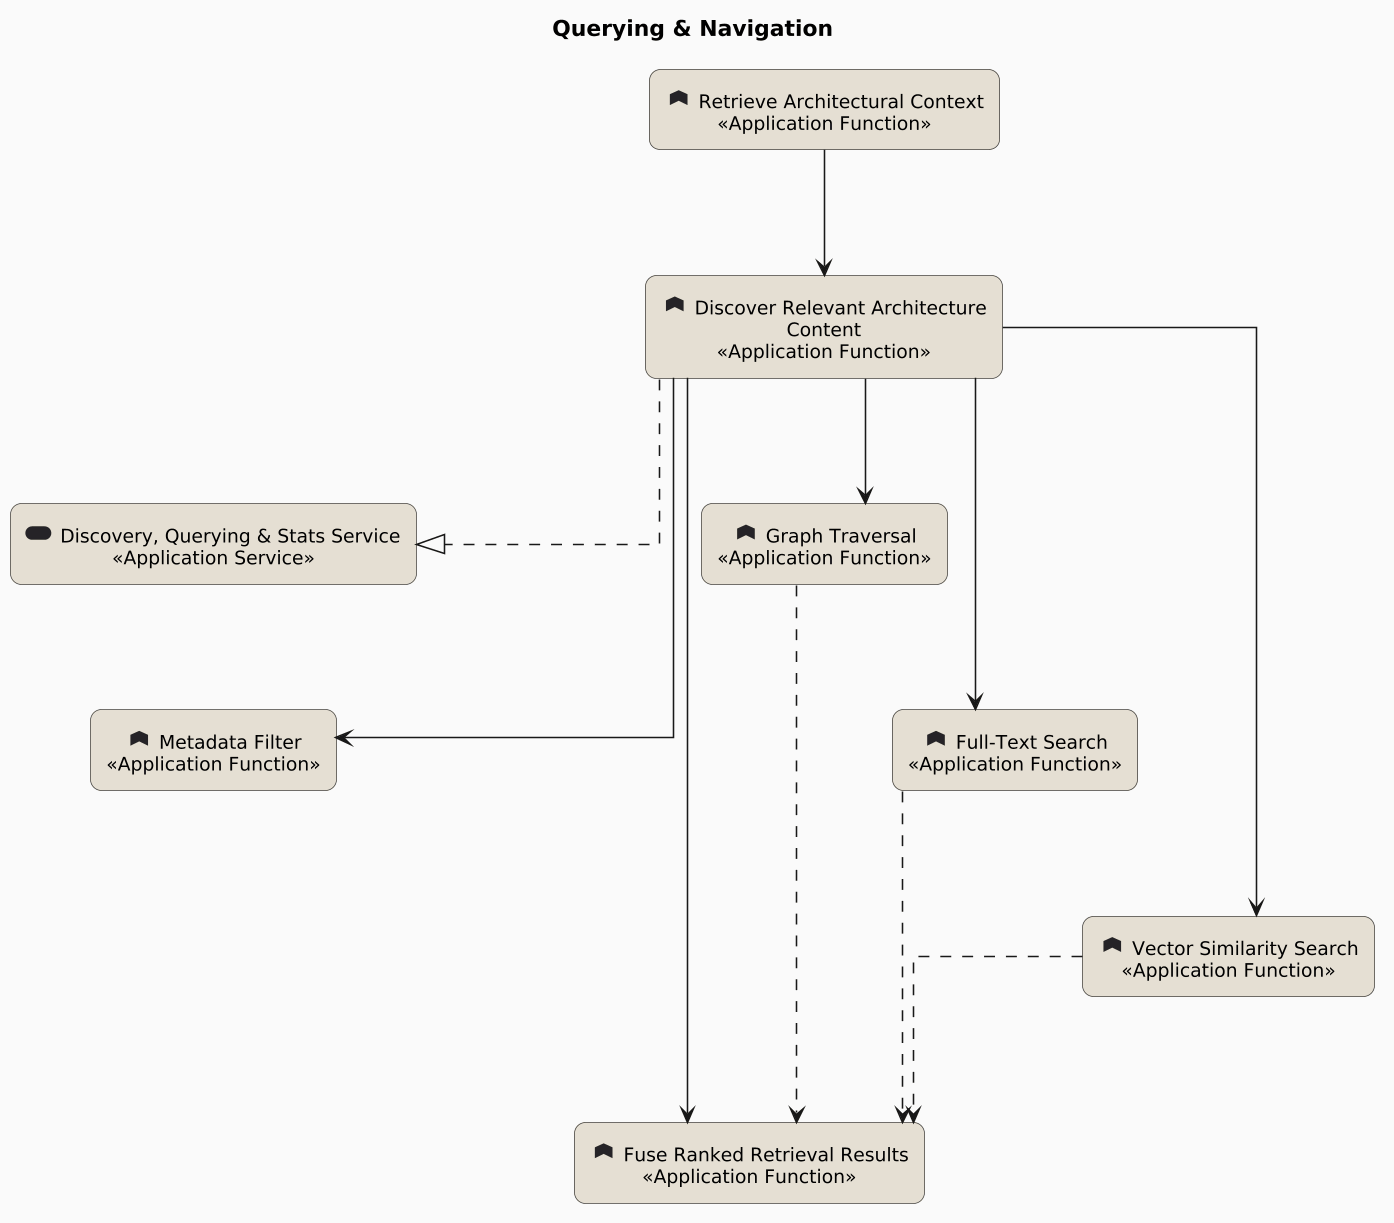
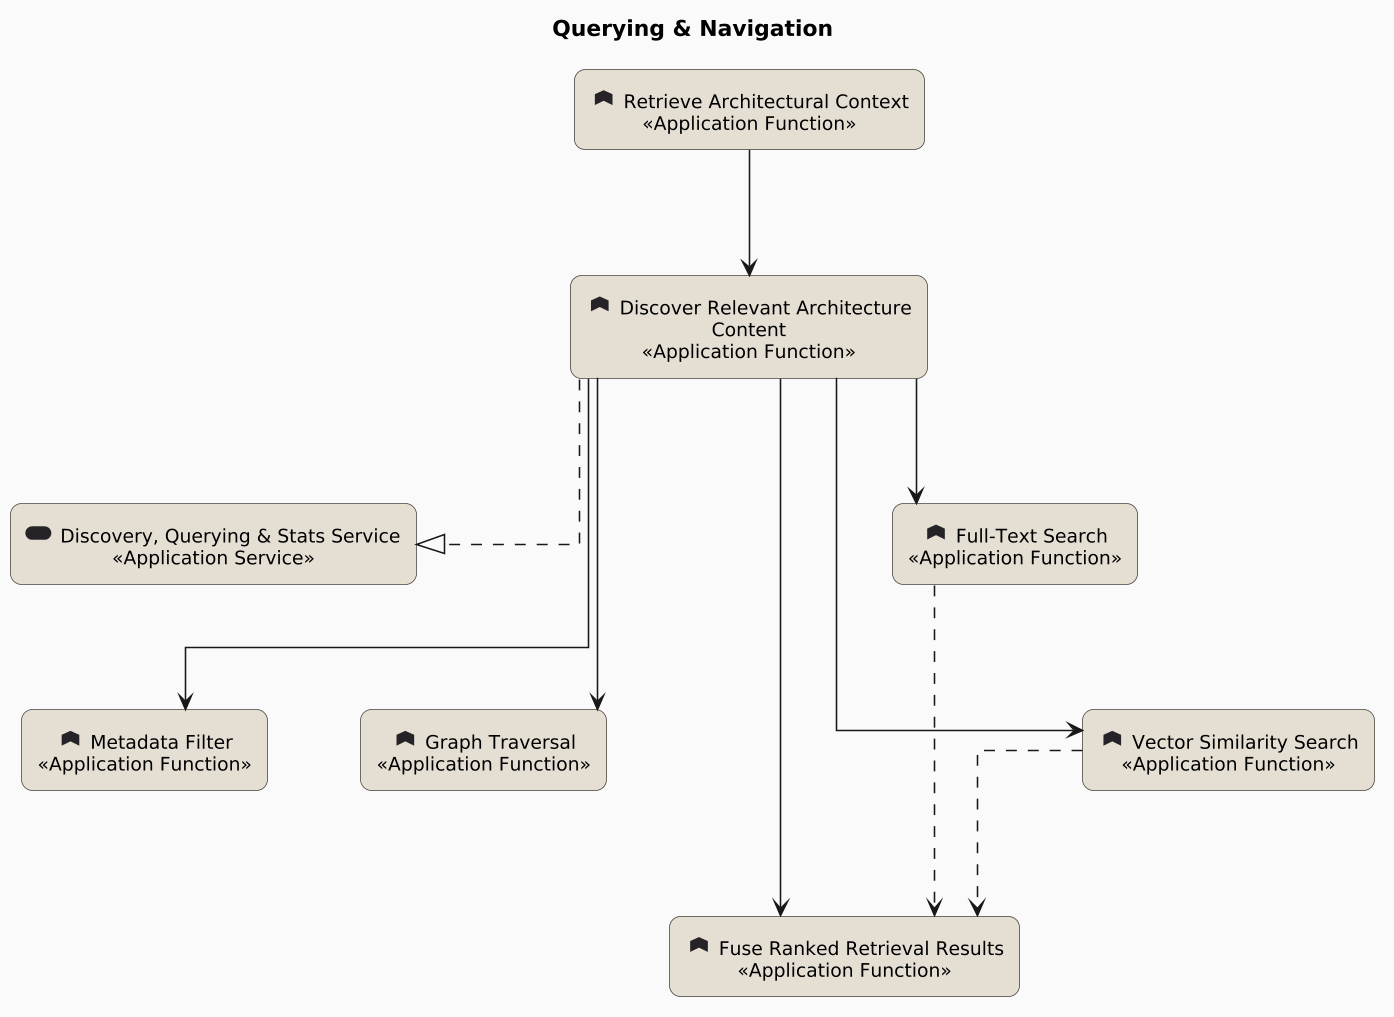
Model: fuse two retrieval branches, not three
Ranking by structural distance was built as a third fused branch and refused
by the suite that exists to judge exactly this. At equal weight it takes the
labelled summary stratum from 98.3% to 61.7% — a structural neighbour of the
best answer counts for what the best answer counts for, so forty neighbours
outvote the thing they surround. Weighted down far enough to stop that, it
changes nothing.

The one stratum it appears to help asks which component realises a
requirement, and that stratum's answer *is* a realization edge, so a branch
that walks connections is being scored on the relation it walks. It is not
evidence about queries.

So the model, the diagram, the decision record and the fusion module all say
two where three had been written or drawn. `Graph Traversal` keeps its place
in discovery — neighbour lookup and dependency closure are what it answers —
and loses only the flow into fusion, which it never earned.

Bringing it back needs per-branch weighting, which this fusion does not
have, and a labelled stratum whose answer is not the relation being walked.
Both are recorded where the next reader will look.

Model verifies at 1,038 files, 0 errors, the same 3 W141 warnings. Gates:
ruff 0, static includes 0, doc links 0, 4,974 tests across domain,
application and the relevance floor.

diff --git a/src/domain/rank_fusion.py b/src/domain/rank_fusion.py
@@ -1,10 +1,17 @@
 """Reciprocal rank fusion: one ordered list from several that do not share a scale.
 
-Three retrievers answer a search — full-text, vector similarity, and graph traversal by structural
-distance — and their scores are not comparable. `scoring.py` says so about the full-text scales
-outright ("incomparable scales"), and `_ranking.py` already works around it: it orders kinds by
-round-robin *because* "the scales do not permit" a global sort. So this codebase had already reasoned
-its way to rank-based fusion; round-robin is a cruder form of it.
+Two retrievers answer a search — full-text matching and vector similarity — and their scores are not
+comparable. `scoring.py` says so about the full-text scales outright ("incomparable scales"), and
+`_ranking.py` already works around it: it orders kinds by round-robin *because* "the scales do not
+permit" a global sort. So this codebase had already reasoned its way to rank-based fusion;
+round-robin is a cruder form of it.
+
+Two, and not the three an earlier draft of this module named. Graph traversal was built as a third
+list and measured: at equal weight it takes the labelled summary stratum from 98.3% to 61.7%, because
+a structural neighbour of the top hit scores the same `1/(k+1)` the top hit does, and forty
+neighbours tie the answer they surround. Damped enough to stop that, it contributes nothing. It may
+return, but only with per-list weights and a stratum whose ground truth is not the relation it
+walks.
 
 `score(candidate) = Σ over lists of 1 / (k + rank)`, rank starting at 1. A candidate absent from a
 list contributes nothing from it. `k` damps the difference between the top ranks: at k=60 the first

diff --git a/engagements/ENG-ARCH-REPO/architecture-repository/docs/adr/ADR@1788520770.AQ5iBJR.embedding-semantic-search-locally-and-keeping-the-confidential-store-out-of-it.md b/engagements/ENG-ARCH-REPO/architecture-repository/docs/adr/ADR@1788520770.AQ5iBJR.embedding-semantic-search-locally-and-keeping-the-confidential-store-out-of-it.md
@@ -6,7 +6,7 @@ title: Embedding Semantic Search Locally, and Keeping the Confidential Store Out
   It
 status: accepted
 version: 0.1.0
-last-updated: '2026-09-05T11:05:32Z'
+last-updated: '2026-09-05T11:25:11Z'
 keywords:
 - search
 - embedding
@@ -52,6 +52,17 @@ Both were answered by measurement rather than preference.
 **One cost of fusion is accepted with open eyes.** On queries where the keyword retriever contributes almost nothing, fusing its list with the vector list scores worse than the vector list alone. Equal-weight fusion dilutes a good list with a bad one. It is accepted because the strata where keyword search is excellent are the common case and fusion protects them; if that trade is revisited, the suite is what decides it.
 
 **What the figures above measure, and what a reader actually gets.** The recall figures in Context were taken over candidate lists, before the ordering policy. Measured through the shipped read path at recall@10, on the same stratum: asking for components, keyword alone answers 10.8%, the vector list alone 14.2%, and the two fused 13.3% — the accepted dilution, reproduced. Asking across every kind, keyword answers 2.5% and fusion 3.3%, because the cross-kind round-robin gives an entity fewer than three of the ten rows and this stratum's answer is always an entity. So "3.3% to 12.5%" compares a windowed result against a candidate list and describes neither on its own. The lift is real and it is about two and a half points where the question is about components.
+
+**Two branches are fused, and a third was measured and refused.** Ranking by structural distance —
+walking the model's own connections out from what the other branches found — was built and scored on
+the suite. At equal weight it takes the summary stratum from 98.3% to 61.7%: a structural neighbour
+of the best answer counts for exactly what the best answer counts for, so forty neighbours outvote
+the thing they surround. Weighted down far enough to stop that, it changes nothing. The one stratum
+it appears to help is the one asking which component realises a requirement, whose ground truth *is*
+a realization edge — a retriever scored on the relation it walks. Bringing it back needs per-branch
+weighting, which this fusion does not have, and a labelled stratum whose answer is not the relation
+being walked. Structure remains what graph traversal answers directly; it is not evidence about what
+a query means.
 
 **The instrument is committed, and it is what settles any later claim.** `tools/quality/relevance_suite.py` derives the strata from whatever the repository currently holds rather than from a stored list of pairs, which would go stale at the first rename. The floor it feeds asserts that fusion loses nothing where keyword search already answers, and that it gains something where keyword search does not — relations between two configurations over one corpus, never a rate against a remembered number.
 

diff --git a/engagements/ENG-ARCH-REPO/architecture-repository/projects/platform-core/model/common/function/FNC@1788599685.KQCmD1g.fuse-ranked-retrieval-results.md b/engagements/ENG-ARCH-REPO/architecture-repository/projects/platform-core/model/common/function/FNC@1788599685.KQCmD1g.fuse-ranked-retrieval-results.md
@@ -9,7 +9,7 @@ keywords:
 - retrieval
 - ranking
 specialization: application-function
-last-updated: '2026-09-05T09:32:28Z'
+last-updated: '2026-09-05T11:23:55Z'
 ---
 
 <!-- §content -->
@@ -26,11 +26,13 @@ Combine what several retrievers found into one candidate list using where each p
 
 ## Notes
 
-Keyword matching, vector similarity and structural distance answer on scales that do not compare, so multiplying one into the other's range makes a number that means nothing. Position is the one thing they all express the same way, and a candidate several retrievers found ranks above one that a single retriever ranked first.
+Keyword matching and vector similarity answer on scales that do not compare, so multiplying one into the other's range makes a number that means nothing. Position is the one thing they both express the same way, and a candidate both retrievers found ranks above one that a single retriever ranked first.
+
+Two branches, and not the three this once said. Ranking by structural distance was built as a third input and measured against the labelled query suite: at equal weight it took the summary stratum from 98.3% to 61.7%, because a structural neighbour of the best answer counts for what the best answer counts for, and forty neighbours outvote the thing they surround. Weighted down far enough to stop that, it changed nothing. It may return, but only alongside per-branch weighting and a labelled stratum whose answer is not the relation it walks.
 
 This produces the candidates; it does not order what a reader sees. That ordering is a separate policy earned by particular failures — an exact name match first whatever it scores, then entries carrying every term, then a rotation across kinds with a floor reserved so preliminary thinking never outranks committed content. A flat fused list in its place would discard all of it.
 
-Where one retriever contributes nothing for a query, combining still costs a little against using the better list alone. That is accepted: the queries where keyword matching is excellent are the common ones, and combining is what protects them.
+Where one branch contributes nothing for a query, combining still costs a little against using the better list alone. That is accepted: the queries where keyword matching is excellent are the common ones, and combining is what protects them.
 
 
 <!-- §display -->

diff --git a/engagements/ENG-ARCH-REPO/architecture-repository/projects/platform-core/model/common/function/FNC@1788600509.scmGYcC.vector-similarity-search.md b/engagements/ENG-ARCH-REPO/architecture-repository/projects/platform-core/model/common/function/FNC@1788600509.scmGYcC.vector-similarity-search.md
@@ -9,7 +9,7 @@ keywords:
 - retrieval
 - embedding
 specialization: application-function
-last-updated: '2026-09-05T09:32:23Z'
+last-updated: '2026-09-05T11:24:16Z'
 ---
 
 <!-- §content -->
@@ -28,7 +28,7 @@ Ranks artifacts by how close their meaning is to the query, by comparing the que
 
 The branch that answers a query phrased in words the artifact does not contain. Measured on this repository, the branches matching on terms answer a query repeating an artifact's own name or summary nearly always and one phrased differently for the same thing nearly never; this is the branch for the second case.
 
-It produces candidates and nothing else. What a reader finally sees is decided by combining it with the other branches and then applying the ordering policy — this branch has no opinion about either.
+It produces candidates and nothing else. What a reader finally sees is decided by combining it with the branch that matches on terms and then applying the ordering policy — this branch has no opinion about either. The other branches of discovery answer different questions and are not combined with it: a structured filter returns no ranking, and ranking by structural distance was measured and refused.
 
 
 <!-- §display -->

diff --git a/engagements/ENG-ARCH-REPO/architecture-repository/projects/platform-core/model/common/function/FNC@1776633704.bFY40B.full-text-search.md b/engagements/ENG-ARCH-REPO/architecture-repository/projects/platform-core/model/common/function/FNC@1776633704.bFY40B.full-text-search.md
@@ -12,7 +12,7 @@ keywords:
 - ranking
 - query
 specialization: application-function
-last-updated: '2026-09-05T09:32:38Z'
+last-updated: '2026-09-05T11:24:16Z'
 ---
 
 <!-- §content -->
@@ -33,7 +33,7 @@ The branch that answers a query using the words the artifact itself uses. Measur
 
 It matches on terms whichever way it has to. The indexed path is the fast one and carries the ranking; where a kind of artifact yields nothing there, the same terms are scored directly against that kind's records rather than the branch reporting nothing. Both are the same behaviour and the caller cannot tell them apart.
 
-It produces candidates and nothing else. What a reader finally sees is decided by combining it with the other branches and then applying the ordering policy.
+It produces candidates and nothing else. What a reader finally sees is decided by combining it with the branch that answers by meaning and then applying the ordering policy.
 
 
 <!-- §display -->

diff --git a/engagements/ENG-ARCH-REPO/architecture-repository/projects/platform-core/model/common/function/FNC@1776633080.BdEMPx.graph-traversal.outgoing.md b/engagements/ENG-ARCH-REPO/architecture-repository/projects/platform-core/model/common/function/FNC@1776633080.BdEMPx.graph-traversal.outgoing.md
@@ -2,7 +2,7 @@
 source-entity: FNC@1776633080.BdEMPx.graph-traversal
 version: 0.1.0
 status: active
-last-updated: '2026-07-19T00:00:00Z'
+last-updated: '2026-09-05T11:23:38Z'
 ---
 
 <!-- §connections -->
@@ -10,7 +10,3 @@ last-updated: '2026-07-19T00:00:00Z'
 ### archimate-realization → CAP@1784482442.0kQIHh.architecture-analysis-visualization
 
 Graph traversal derives relational answers from the model — a constituent behavior of the analysis-and-visualization ability.
-
-### archimate-flow → FNC@1788599685.KQCmD1g.fuse-ranked-retrieval-results
-
-Ranked structural candidates.
